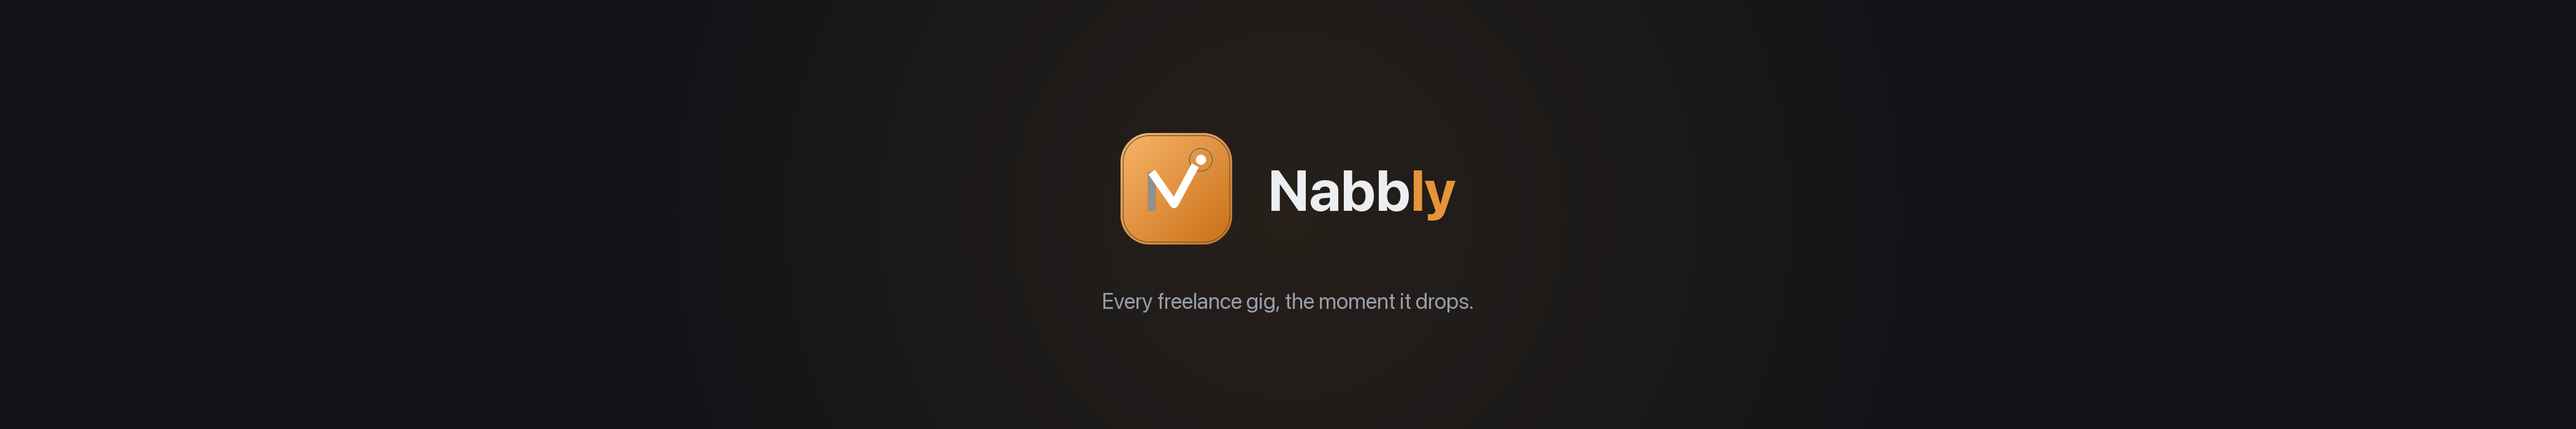
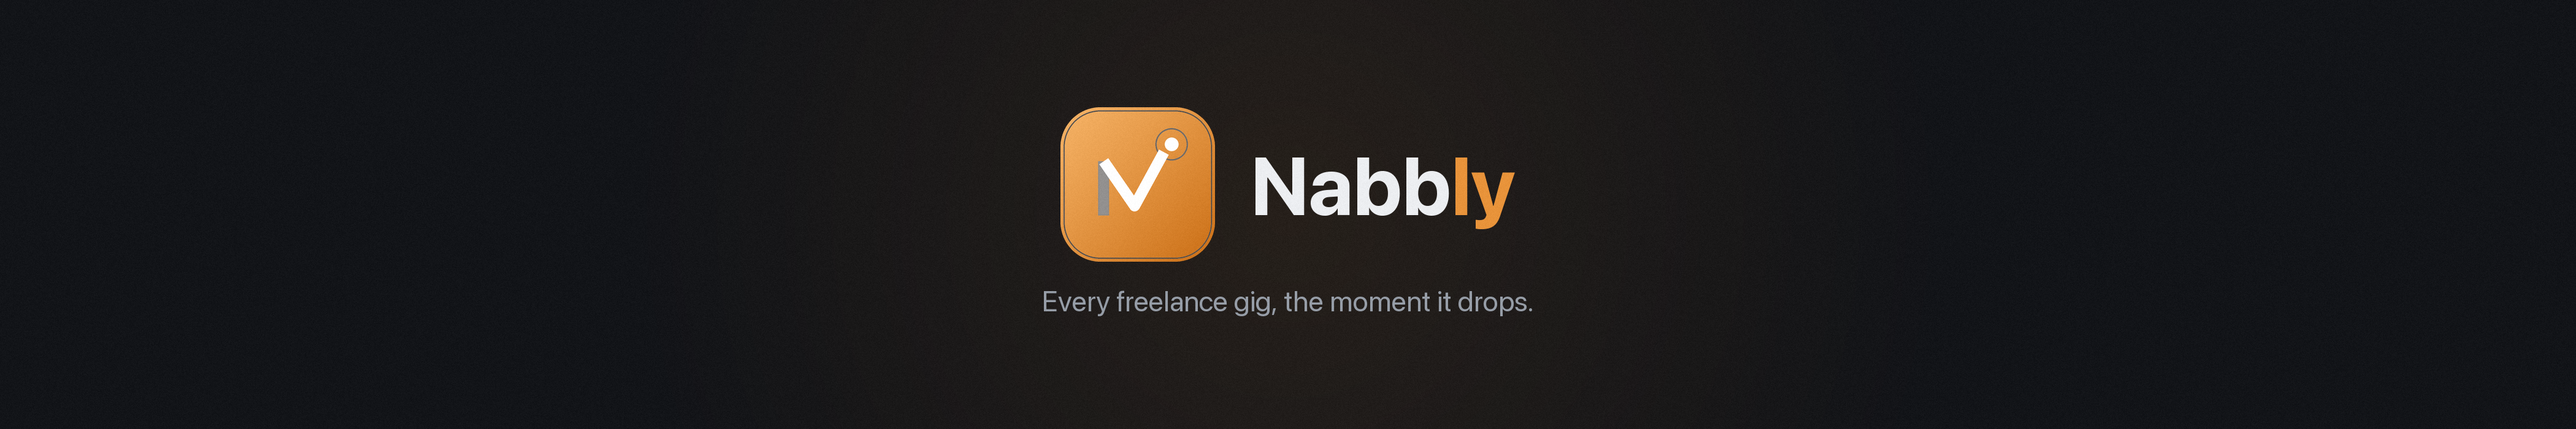
Company cover: bigger lockup, dithered to survive recompression
Two real problems on the live member-facing page: the lockup only
used 547 of 900 available px in the mobile-safe zone, so on desktop
(full width visible) it read as tiny and lost in a sea of dark
gradient — "zoomed out." And the banner looked pixelated, almost
certainly LinkedIn re-encoding our smooth radial gradient as JPEG —
flat/smooth color areas are exactly where 8-bit banding turns into
visible blocky artifacts after lossy recompression, regardless of
how high-res or lossless the source PNG is.

Fixes: lockup grown to 742px (was 547) — bigger, bolder, still well
inside the 900px safe zone. Added dither() (small deterministic
per-pixel noise via numpy) applied right before save on the cover —
breaks up the smooth gradient runs that cause banding, invisible at
normal viewing size, confirmed via pixel sampling that a previously
flat run now has real value-to-value variance.

Changed region(s): [[0.4055, 0.24, 0.5926, 0.63], [0.4055, 0.69, 0.5926, 0.75]]

diff --git a/tools/make_social.py b/tools/make_social.py
@@ -17,6 +17,7 @@ Same mark and palette as the app and the og card, sized for each platform:
 Run:  .venv/bin/python tools/make_social.py
 """
 from pathlib import Path
+import numpy as np
 from PIL import Image, ImageDraw, ImageFont
 
 ROOT = Path(__file__).resolve().parent.parent
@@ -52,6 +53,24 @@ def _font(size, variation, fallback=ARIAL):
 
 def _lerp(a, b, t):
     return tuple(int(a[i] + (b[i] - a[i]) * t) for i in range(3))
+
+
+def dither(img, amount=4, seed=1):
+    """
+    Add a tiny bit of random noise before saving. A perfectly smooth dark
+    gradient (like the cover art's glow) is the one thing JPEG re-encoding
+    handles worst — flat/smooth areas are exactly where 8-bit banding turns
+    into visible blocky "pixelated" rings once a platform recompresses the
+    upload. A few levels of noise breaks up the banding; it's invisible at
+    normal viewing size but keeps the recompressed version smooth instead of
+    stair-stepped. Deterministic seed so re-running the script doesn't
+    produce a different-looking file each time.
+    """
+    rng = np.random.default_rng(seed)
+    arr = np.asarray(img).astype(np.int16)
+    noise = rng.integers(-amount, amount + 1, arr.shape[:2] + (1,))
+    arr = np.clip(arr + noise, 0, 255).astype(np.uint8)
+    return Image.fromarray(arr, mode=img.mode)
 
 
 def amber_tile(size, radius, ss=3):
@@ -232,16 +251,20 @@ def make_company_cover(w, h, name, safe_w):
     d = ImageDraw.Draw(img)
     cx = w // 2
 
-    tile_sz = int(h * 0.26)
-    f_word = _font(int(h * 0.135), "Bold", ARIAL_B)
-    f_tag = _font(int(h * 0.052), "Regular", ARIAL)
+    # Sized to actually fill most of the mobile-safe strip, not just survive
+    # inside it — the first version used only 547 of 900 available px and
+    # read as tiny and lost once the full-width desktop banner made that gap
+    # obvious. This targets ~80-85% of safe_w instead.
+    tile_sz = int(h * 0.36)
+    f_word = _font(int(h * 0.19), "Bold", ARIAL_B)
+    f_tag = _font(int(h * 0.068), "Regular", ARIAL)
     tag = "Every freelance gig, the moment it drops."
 
     word_w = d.textlength("Nabbly", font=f_word)
     gap = int(w * 0.014)
     lockup_w = tile_sz + gap + word_w
     lx = cx - int(lockup_w / 2)
-    cy = int(h * 0.44)
+    cy = int(h * 0.43)
 
     tile = amber_tile(tile_sz, int(tile_sz * 0.26))
     img.paste(tile, (lx, cy - tile_sz // 2), tile)
@@ -250,7 +273,8 @@ def make_company_cover(w, h, name, safe_w):
     wn = d.textlength("Nabb", font=f_word)
     d.text((tx + wn, cy), "ly", font=f_word, fill=AMBER, anchor="lm")
 
-    d.text((cx, cy + int(h * 0.26)), tag, font=f_tag, fill=MUTE, anchor="mm")
+    d.text((cx, cy + int(h * 0.27)), tag, font=f_tag, fill=MUTE, anchor="mm")
+    img = dither(img)
     img.save(OUT / name)
     print(name, img.size, f"(lockup {int(lockup_w)}px, safe zone {safe_w}px)")
 
